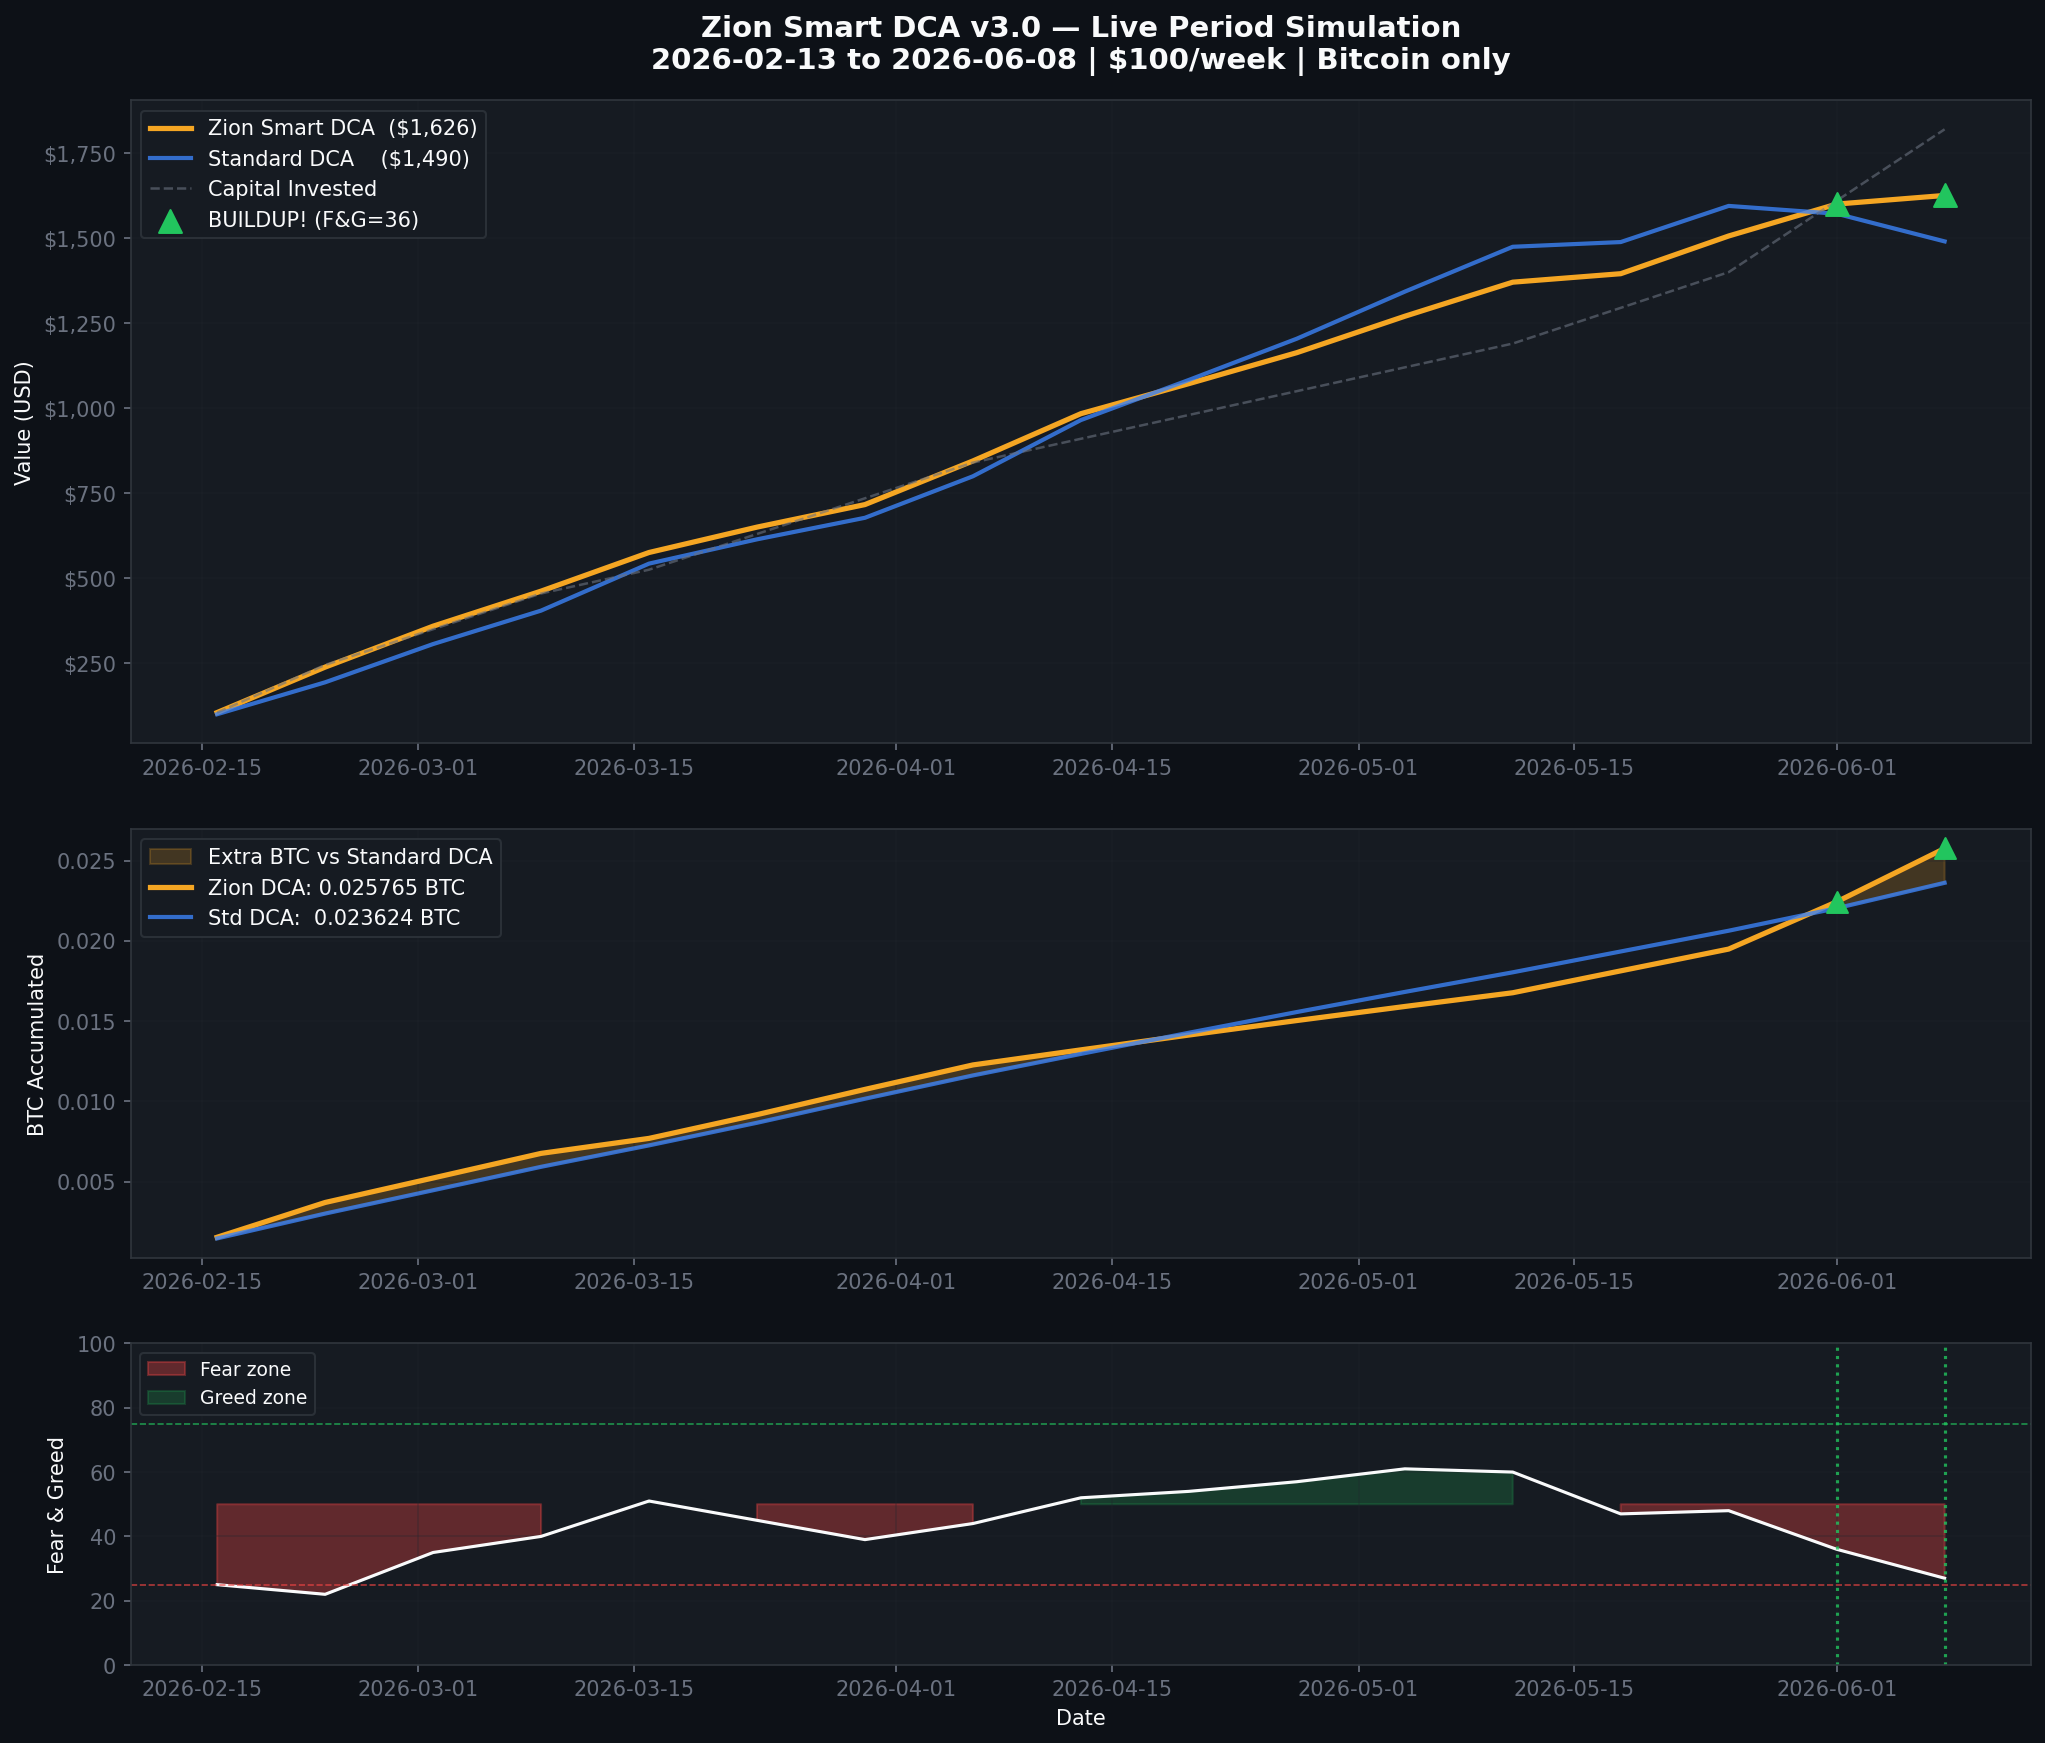
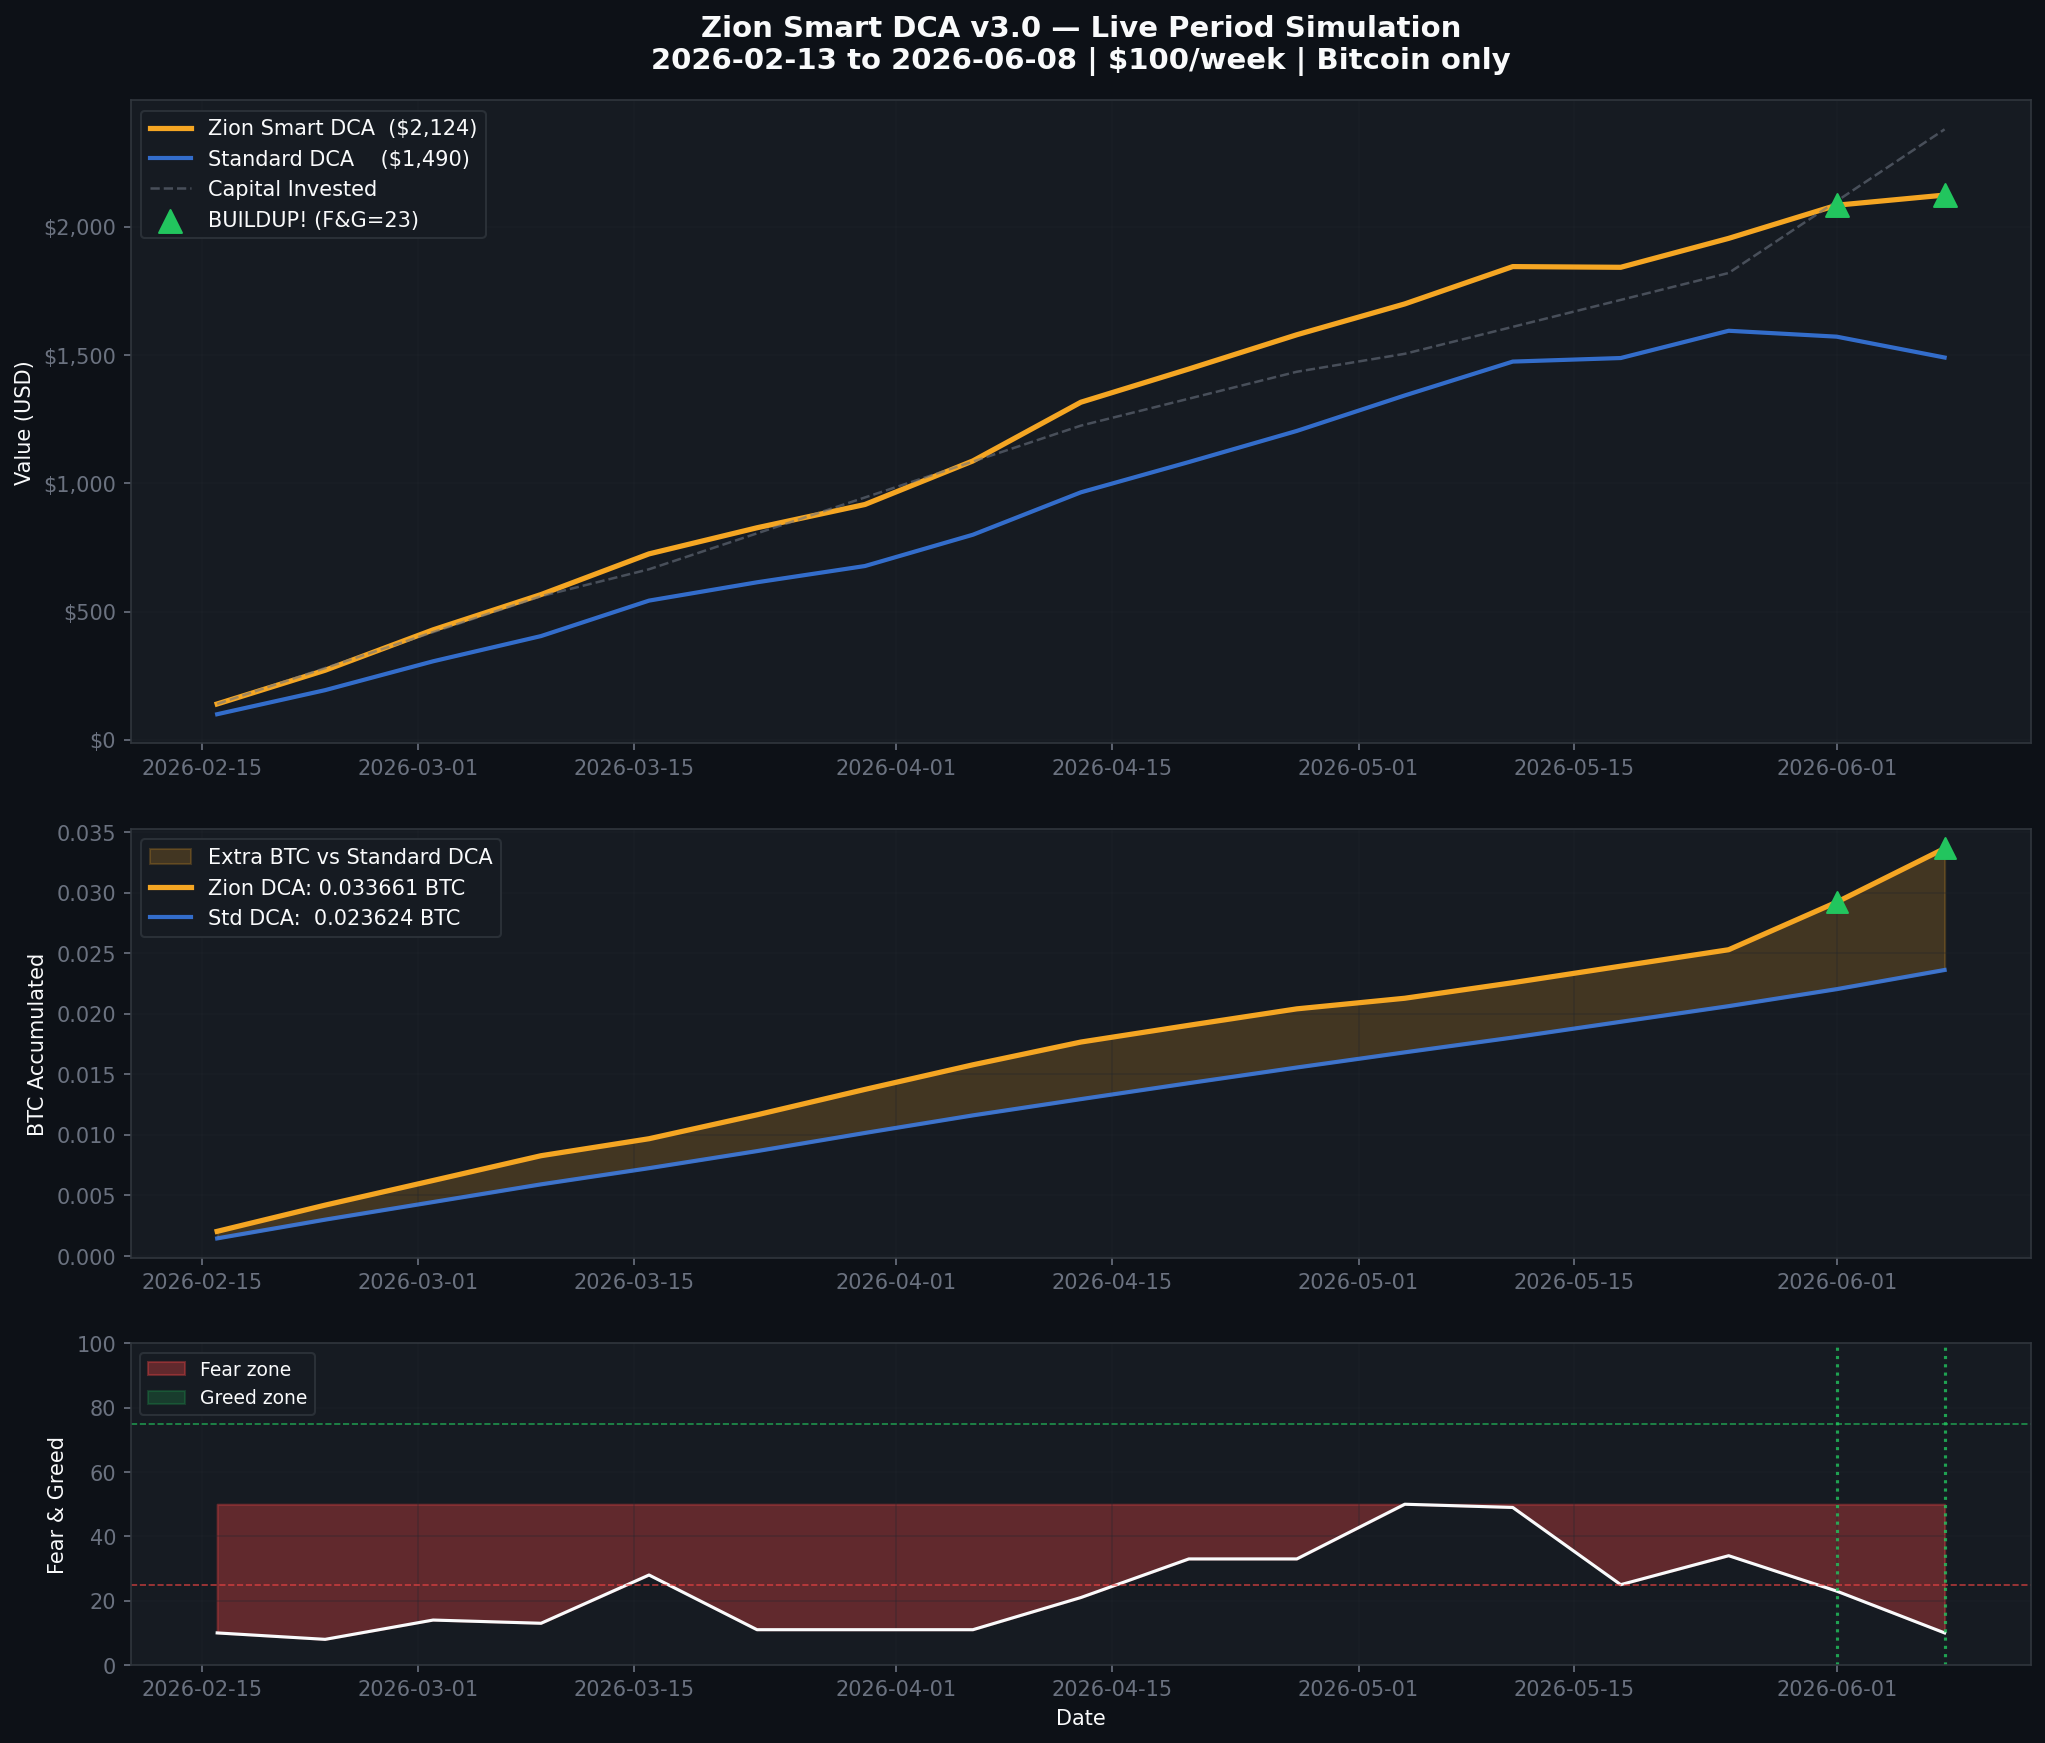
feat: real Fear & Greed data from Alternative.me API
Replace proxy F&G with real historical data (alternative.me free API)
- 500 days of real F&G (Jan 2025 - Jun 2026)
- Fallback to proxy for older dates (pre-2025)
- Dramatically changes live simulation results

Real simulation results (Feb-Jun 2026, /week BTC):
  - 94% of weeks in Fear/Extreme Fear zone (real data)
  - 10 weeks at 2x multiplier (Extreme Fear)
  - 6 weeks at 1.5x multiplier (Fear)
  - Only 1 week at 1.0x (Neutral)
  - Zion DCA: 0.033661 BTC (+42.5% more than Standard DCA)
  - Standard DCA: 0.023624 BTC
  - Source: https://alternative.me/crypto/fear-and-greed-index/

diff --git a/backtest/data_loader.py b/backtest/data_loader.py
@@ -2,14 +2,19 @@
 """
 Zion Smart DCA — Historical Data Loader
 Downloads BTC OHLCV data via yfinance for backtesting.
+Fear & Greed: real historical data from Alternative.me API (free, 365-day history).
+Fallback: proxy calculated from RSI + 30d return + MA200 distance.
 BNB Hack 2026 | Track 2: Crypto Intelligence Agent
 """
 
 import os
+import requests
 import pandas as pd
 import yfinance as yf
 from pathlib import Path
 from datetime import datetime, timedelta
+
+FG_CSV = Path(__file__).parent / "fear_greed_historical.csv"
 
 DATA_DIR  = Path(__file__).parent
 CSV_PATH  = DATA_DIR / "btc_2021_2026.csv"
@@ -59,22 +64,68 @@ def download_btc_data(
     return df
 
 
+def fetch_real_fear_greed(limit: int = 365) -> pd.DataFrame:
+    """
+    Fetches real Fear & Greed Index from Alternative.me (free API).
+    Returns DataFrame with Date index and FearGreed column.
+    Source: https://alternative.me/crypto/fear-and-greed-index/
+    """
+    try:
+        url = f"https://api.alternative.me/fng/?limit={limit}&format=json"
+        r   = requests.get(url, timeout=10)
+        r.raise_for_status()
+        data = r.json()["data"]
+        records = [
+            {
+                "Date":      datetime.fromtimestamp(int(d["timestamp"])).strftime("%Y-%m-%d"),
+                "FearGreed": int(d["value"]),
+                "FG_Label":  d["value_classification"],
+                "Source":    "alternative.me (real)",
+            }
+            for d in data
+        ]
+        fg_df = pd.DataFrame(records)
+        fg_df["Date"] = pd.to_datetime(fg_df["Date"])
+        fg_df = fg_df.set_index("Date").sort_index()
+        fg_df.to_csv(FG_CSV)
+        print(f"Real F&G loaded: {len(fg_df)} days ({fg_df.index[0].date()} to {fg_df.index[-1].date()})")
+        return fg_df
+    except Exception as e:
+        print(f"Alternative.me API unavailable ({e}), using proxy F&G.")
+        return pd.DataFrame()
+
+
+def _compute_fg_proxy(df: pd.DataFrame) -> pd.Series:
+    """Proxy F&G from RSI + 30d return + MA200 distance (fallback only)."""
+    import numpy as np
+    close    = df["Close"]
+    ret_30d  = close.pct_change(30) * 100
+    ma200    = close.rolling(200).mean()
+    dist_ma  = ((close - ma200) / ma200 * 100)
+    rsi      = df["RSI"] if "RSI" in df.columns else pd.Series(50, index=df.index)
+    fg_raw   = (
+        rsi * 0.40 +
+        (ret_30d.clip(-50, 50) + 50) * 0.35 +
+        (dist_ma.clip(-40, 40) + 40) * 0.25 * (100 / 80)
+    )
+    return fg_raw.clip(0, 100).round(0)
+
+
 def add_weekly_fear_greed(df: pd.DataFrame) -> pd.DataFrame:
     """
-    Approximates weekly Fear & Greed based on BTC price performance.
-    Used for backtesting since historical F&G API requires paid plan.
-    
-    Method: derives F&G proxy from:
-    - 30-day rolling return (trend signal)
-    - 14-day RSI (momentum signal)  
-    - Distance from 200-day MA (macro signal)
+    Adds RSI and Fear & Greed to daily BTC DataFrame.
+
+    Priority:
+      1. Real historical F&G from Alternative.me (free API, 365-day history)
+      2. Cached CSV from previous fetch
+      3. Proxy calculated from price indicators (fallback)
     """
     import numpy as np
 
     df = df.copy()
     close = df["Close"]
 
-    # RSI 14 (Wilder method)
+    # RSI 14 (Wilder EMA method — same as TradingView)
     delta    = close.diff()
     gain     = delta.clip(lower=0)
     loss     = (-delta).clip(lower=0)
@@ -83,21 +134,46 @@ def add_weekly_fear_greed(df: pd.DataFrame) -> pd.DataFrame:
     rs       = avg_gain / avg_loss
     df["RSI"] = (100 - 100 / (1 + rs)).round(2)
 
-    # 30d return
-    df["ret_30d"] = close.pct_change(30) * 100
+    # --- Try real F&G first ---
+    fg_real = pd.DataFrame()
 
-    # Distance from 200MA
-    df["ma200"]      = close.rolling(200).mean()
-    df["dist_ma200"] = ((close - df["ma200"]) / df["ma200"] * 100).round(2)
+    # 1. Load from cache if fresh enough
+    if FG_CSV.exists():
+        cached = pd.read_csv(FG_CSV, index_col="Date", parse_dates=True)
+        if not cached.empty and cached.index[-1].date() >= (datetime.today().date() - timedelta(days=2)):
+            fg_real = cached
+            print(f"Using cached real F&G ({len(fg_real)} days)")
 
-    # F&G proxy (0-100) — calibrated to match historical F&G index behavior
-    fg_raw = (
-        df["RSI"] * 0.40 +                           # RSI component (40%)
-        (df["ret_30d"].clip(-50, 50) + 50) * 0.35 + # 30d trend component (35%)
-        (df["dist_ma200"].clip(-40, 40) + 40) * 0.25 * (100/80)  # MA200 component (25%)
-    )
-    df["FearGreed"] = fg_raw.clip(0, 100).round(0).astype("Int64")
+    # 2. Fetch fresh from API
+    if fg_real.empty:
+        fg_real = fetch_real_fear_greed(limit=500)
 
+    # 3. Merge real F&G where available, proxy elsewhere
+    if not fg_real.empty:
+        df["FearGreed"] = pd.NA
+        df["FG_Source"] = "proxy"
+
+        # Align real data
+        common = df.index.intersection(fg_real.index)
+        df.loc[common, "FearGreed"] = fg_real.loc[common, "FearGreed"].values
+        df.loc[common, "FG_Source"] = "real"
+
+        # Fill gaps with proxy
+        proxy = _compute_fg_proxy(df)
+        missing = df["FearGreed"].isna()
+        df.loc[missing, "FearGreed"] = proxy[missing]
+        df.loc[missing, "FG_Source"] = "proxy"
+
+        real_count  = (df["FG_Source"] == "real").sum()
+        proxy_count = (df["FG_Source"] == "proxy").sum()
+        print(f"F&G coverage: {real_count} real days + {proxy_count} proxy days")
+    else:
+        # Full proxy fallback
+        df["FearGreed"] = _compute_fg_proxy(df)
+        df["FG_Source"]  = "proxy"
+        print("F&G: using full proxy (Alternative.me unavailable)")
+
+    df["FearGreed"] = df["FearGreed"].round(0).astype("Int64")
     return df
 
 

diff --git a/analyze_multipliers.py b/analyze_multipliers.py
@@ -1,0 +1,36 @@
+import pandas as pd
+
+df = pd.read_csv('D:/Dev/zion-smart-dca-skill/docs/weekly_decisions.csv', index_col=0, parse_dates=True)
+
+print('=== 17 SEMANAS - BREAKDOWN COMPLETO ===')
+print(f'{"Sem":<4} {"Data":<12} {"BTC":>10} {"FG":>4} {"RSI":>6} {"Mult":>5} {"USD":>8} {"Decisao":<16}')
+print('-'*70)
+for idx, r in df.iterrows():
+    flag = ' <-- BUILDUP! *' if r['is_buildup'] else ''
+    print(f'{int(r["week"]):<4} {str(idx.date()):<12} ${r["btc_price"]:>9,.0f} {int(r["fear_greed"]):>4} {r["rsi"]:>6.1f} {r["multiplier"]:>5.1f}x ${r["dca_amount"]:>7.2f} {r["decision"]:<16}{flag}')
+
+print()
+print('=== DISTRIBUICAO DOS MULTIPLICADORES ===')
+mult_labels = {
+    0.5: 'Extreme Greed (0.5x) - ECONOMIA',
+    1.0: 'Neutral       (1.0x) - PADRAO  ',
+    1.5: 'Fear          (1.5x) - COMPRA+ ',
+    2.0: 'Extreme Fear  (2.0x) - COMPRA++'
+}
+for m in [0.5, 1.0, 1.5, 2.0]:
+    c = len(df[df['multiplier'] == m])
+    if c > 0:
+        pct = c/len(df)*100
+        bar = '#' * c
+        label = mult_labels[m]
+        print(f'  {label}  {c:>2} semanas ({pct:>4.1f}%)  {bar}')
+
+print()
+semanas_medo = len(df[df['multiplier'] >= 1.5])
+total_extra = df['dca_amount'].sum() - (70 * len(df))
+media_semanal = df['dca_amount'].mean()
+print(f'Semanas em regiao de medo (1.5x+):  {semanas_medo} de {len(df)} ({semanas_medo/len(df)*100:.0f}%)')
+print(f'Total extra comprado vs base $70:   ${total_extra:.2f}')
+print(f'Media de compra semanal real:       ${media_semanal:.2f} vs $70 base')
+print(f'BTC total acumulado (Zion):         {df["btc_held"].iloc[-1]:.6f} BTC')
+print(f'BTC extra vs DCA padrao:            +{(df["btc_held"].iloc[-1] - 0.023624):.6f} BTC (+{(df["btc_held"].iloc[-1] - 0.023624)/0.023624*100:.1f}%)')